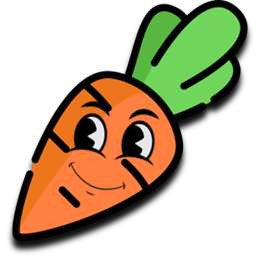
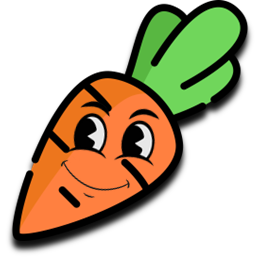
Fixing CarrotBoy and carrots work like carrot.

Changed region(s): [[0.2154, 0.6202, 0.5231, 0.7752]]

diff --git a/src/pages/recette/RecettePage.tsx b/src/pages/recette/RecettePage.tsx
@@ -15,13 +15,19 @@ function Recipe() {
   const [showPrompt, setShowPrompt] = useState(false);
 
   const handleFilter = () => {
-    return data.filter((meal) =>
-      Object.values(meal).join(" ").toLowerCase().includes("carrot"),
+    return data.filter(
+      (meal) =>
+        Object.values(meal)
+          .join(" ")
+          .toLowerCase()
+          .match(/\bcarrots?\b/), // Matches "carrot" or "carrots"
     );
   };
 
   const handleSubmit = () => {
-    if (query.toLowerCase() !== "carrot") {
+    const lowerCaseQuery = query.toLowerCase();
+    if (!lowerCaseQuery.match(/\bcarrots?\b/)) {
+      // Matches "carrot" or "carrots"
       setShowPrompt(true);
     } else {
       setSubmittedQuery(query);
@@ -32,7 +38,7 @@ function Recipe() {
   const filteredData = submittedQuery ? handleFilter() : [];
 
   if (showPrompt) {
-    alert("You didn't type carrot!");
+    alert("You didn't type carrot or carrots!");
     setShowPrompt(false);
   }
 
@@ -41,7 +47,8 @@ function Recipe() {
       <section className={style.recettePage}>
         <Filtre query={query} setQuery={setQuery} onSubmit={handleSubmit} />
         <section className={style.displayCards}>
-          {submittedQuery.toLowerCase() === "carrot" && filteredData.length > 0
+          {submittedQuery.toLowerCase().match(/\bcarrots?\b/) &&
+          filteredData.length > 0
             ? filteredData.map((meal) => (
                 <MealCard key={meal.idMeal} data={meal} />
               ))

diff --git a/src/pages/Home/Home.tsx b/src/pages/Home/Home.tsx
@@ -5,6 +5,7 @@ import OriginalCarrot from "../../assets/images/OriginalCarrot.png";
 import FlatteredCarrot from "../../assets/images/FlatteredCarrot.png";
 import AngryCarrot from "../../assets/images/AngryCarrot.png";
 import AutoPlay from "../../components/slider/AutoPlay";
+import CarrotBoy from "../../../public/CarrotBoy.png";
 
 function Home() {
   const dataRecepe = useLoaderData();
@@ -21,9 +22,10 @@ function Home() {
 
       <div className={style.PlaceholderImages}>
         <span className={style.riseShake}>
-          <img src={OriginalCarrot} alt="Original Carrot" />
-          <img src={FlatteredCarrot} alt="Flattered Carrot" />
-          <img src={AngryCarrot} alt="Angry Carrot" />
+          {/* <img src={OriginalCarrot} alt="Original Carrot" /> */}
+          {/* <img src={FlatteredCarrot} alt="Flattered Carrot" /> */}
+          {/* <img src={AngryCarrot} alt="Angry Carrot" /> */}
+          <img src={CarrotBoy} alt="Original Carrot" />
         </span>
       </div>
 

diff --git a/src/components/Footer/Footer.tsx b/src/components/Footer/Footer.tsx
@@ -10,7 +10,7 @@ function Footer() {
             <img src={icon} alt="icone twitter" className={style.social_icon} />
           </a>
         </div>
-        <p className={style.creators}>Carrot Mania @2024</p>
+        <p className={style.creators}>KAROTAINE @2024</p>
       </footer>
     </section>
   );

diff --git a/src/pages/NotFound/NotFound.module.css b/src/pages/NotFound/NotFound.module.css
@@ -15,7 +15,7 @@
 }
 
 .message {
-  font-size: 1.5rem;
+  font-size: 3rem;
   color: var(--primary-color);
 }
 
@@ -42,5 +42,5 @@
 }
 
 .blur {
-  background-color: #fd7d14a8;
+  background-color: #fd7d14e3;
 }

diff --git a/src/pages/Home/Home.module.css b/src/pages/Home/Home.module.css
@@ -16,8 +16,8 @@
 }
 
 .PlaceholderImages img {
-  width: 50px;
-  height: 50px;
+  width: 75px;
+  height: 75px;
   object-fit: contain;
 }
 
